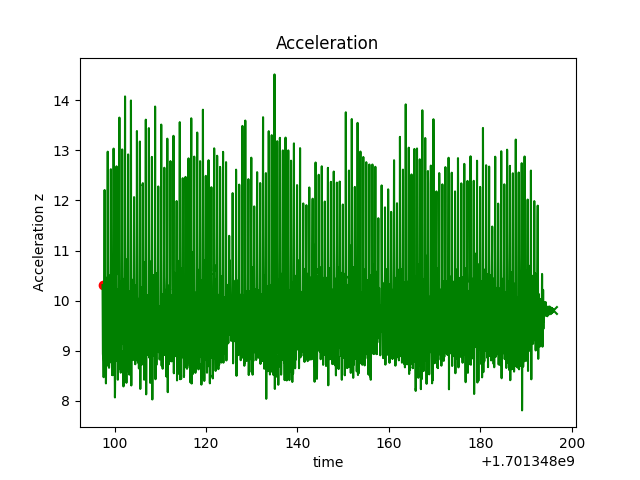
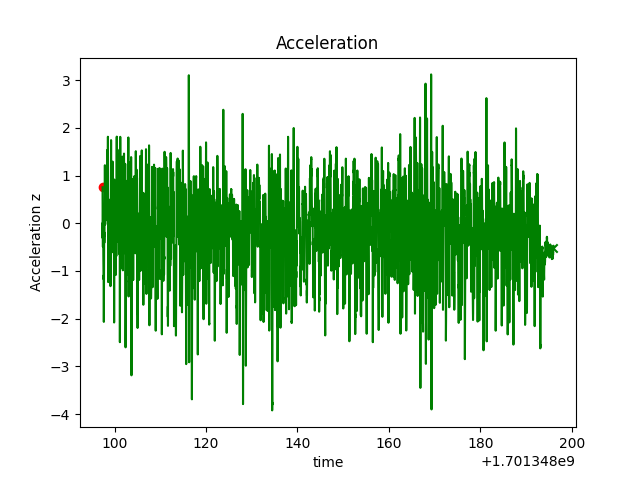
groupa

diff --git a/main2.py b/main2.py
@@ -3,8 +3,8 @@ import scipy.integrate as integrate
 from scipy.signal import detrend
 import numpy as np
 import matplotlib.pyplot as plt
+from scipy.spatial.transform import Rotation
 from mpl_toolkits.mplot3d import Axes3D
-
 
 # read yaml file and return the data as python dictionary
 def read_yaml(filepath) :  
@@ -24,10 +24,13 @@ def extract_quternions(dic) :
 
 # change the quternion to rotation matrix
 def quaternion_to_matrix(qtrn) :
+  
    q0 = qtrn['w']
    q1 = qtrn['x']
    q2 = qtrn['y']
    q3 = qtrn['z']
+   rotation_vec = [q1,q2,q3]
+   rotation_matrix = Rotation.from_rotvec(rotation_vec).as_matrix()
    # First row of the rotation matrix
    r00 = 2 * (q0 * q0 + q1 * q1) - 1
    r01 = 2 * (q1 * q2 - q0 * q3)
@@ -45,9 +48,10 @@ def quaternion_to_matrix(qtrn) :
     
    # 3x3 rotation matrix
    rot_matrix = np.array([[r00, r01, r02],
-                        [r10, r11, r12],
-                        [r20, r21, r22]])          
-   return rot_matrix
+                          [r10, r11, r12],
+                          [r20, r21, r22]])          
+#    return rot_matrix
+   return rotation_matrix
 
 # extract the accleration for each axis
 def extract_acc(dic,bias, sf) :
@@ -62,7 +66,8 @@ def extract_acc(dic,bias, sf) :
     # apply scale factor and bias before transforming it
     for i in range(3):
         acc[i] = (acc[i] - bias[i]) / (1 + sf[i])
-    acc_tranformed = rotation_matrix @ acc.reshape((-1,1)) # 3,1 column vector
+    gravity = np.array([[0], [0], [9.8]])
+    acc_tranformed = rotation_matrix @ acc.reshape((-1,1)) - rotation_matrix @ gravity # 3,1 column vector
     return acc_tranformed
 
 # estimate velocity
@@ -70,6 +75,13 @@ def est_vel(acc, timepoints) :
     print('estimating velocity by integrating acc...')
     vel = np.zeros_like(acc)
     vel = integrate.cumtrapz(acc,x=timepoints,initial=0)
+
+    # velocity = np.zeros_like(acc)
+    # velocity[0] = 0
+
+    # for i in range(1,len(vel)) :
+    #     delta = timepoints[i]- timepoints[i-1]
+    #     velocity[i] = acc[i] * delta
     return vel
 
 # estimate displacement
@@ -81,7 +93,7 @@ def est_position(vel ,timepoints) :
 
 # plot 2d data
 def plot_2D(xdata,ydata, xlabel, ylabel,title):
-    plt.plot(xdata,ydata,linestyle ='-', color ='g')
+    plt.scatter(xdata,ydata, s =5, color ='blue')
     plt.xlabel(xlabel=xlabel)
     plt.ylabel(ylabel=ylabel)
     plt.title(title)
@@ -104,14 +116,14 @@ def plot_3D(xdata, ydata, zdata):
 
 def main() :
     # bias
-    bias_x = 0 #0.00273906
-    bias_y = 0 #0.01719892
-    bias_z = 0 #-0.002825
+    bias_x = 0.00273906
+    bias_y = 0.01719892
+    bias_z = -0.002825
     bias = [bias_x, bias_y, bias_z]
     # scale factor
-    sf_x   = 0 #0.00068967
-    sf_y   = 0 #0.0003230
-    sf_z   = 0 #0.00147083
+    sf_x   = 0.00068967
+    sf_y   = 0.0003230
+    sf_z   = 0.00147083
     sf = [sf_x, sf_y, sf_z]
     gravity = 9.8
     file_path = 'imu_data.yaml'
@@ -120,23 +132,23 @@ def main() :
     time_points = list(map(lambda x: extract_time(x),data))
     # get the acceleration
     print('extracting acceleration data...') # this is goint to be changed
-    acclrtn = list(map(lambda a : extract_acc(a, bias=bias,sf=sf), data))
-    acc_x =  (list(map( lambda d : d[0, 0], acclrtn)))  # get acceleration in x direction
-    acc_y =  (list(map( lambda d : d[1, 0], acclrtn)))  # get acceleration in y direction
-    acc_z =  (list(map( lambda d : d[2, 0], acclrtn)))  # get accelration in z direction
+    acclrtn =  list(map(lambda a : extract_acc(a, bias=bias,sf=sf), data))
+    acc_x   =  (list(map( lambda d : d[0, 0], acclrtn)))  # get acceleration in x direction
+    acc_y   =  (list(map( lambda d : d[1, 0], acclrtn)))  # get acceleration in y direction
+    acc_z   =  (list(map( lambda d : d[2, 0], acclrtn)))  # get accelration in z direction
     # get the velocity
     vel_x = (est_vel(acc_x,time_points))
     vel_y = (est_vel(acc_y,time_points))
     vel_z = (est_vel(acc_y,time_points))
     # get the position
-    pos_x = est_position(vel_x,time_points)
-    pos_y = est_position(vel_y,time_points)
-    pos_z = est_position(vel_z,time_points)
+    pos_x = (est_position(vel_x,time_points))
+    pos_y = (est_position(vel_y,time_points))
+    pos_z =  est_position(vel_z,time_points)
     # plot
-    # plot_2D(pos_x,pos_y,xlabel='x-position', ylabel='y-position', title='position-xy-plane')
-    # plot_2D(time_points,vel_x,xlabel='time', ylabel='vel-x', title='velocity-x')
-    # plot_2D(time_points,vel_y,xlabel='time', ylabel='vel-y', title='velocity-y')
+    plot_2D(pos_x, pos_y, xlabel='x-position', ylabel='y-position', title='position-xy-plane')
+    plot_2D(time_points,vel_x,xlabel='time', ylabel='vel-x', title='velocity-x')
+    plot_2D(time_points,vel_y,xlabel='time', ylabel='vel-y', title='velocity-y')
     # plot_3D(pos_x, pos_y, pos_z)
-    plot_2D(time_points,acc_z,xlabel='time', ylabel='Acceleration z', title='Acceleration')
+    # plot_2D(time_points,acc_x,xlabel='time', ylabel='Acceleration z', title='Acceleration')
 
 main()

diff --git a/main3.py b/main3.py
@@ -54,7 +54,7 @@ def extract(data, timepoints, bias, sf):
     acc_y_trn[0] = acc_y[0]
     acc_z_trn = np.zeros(len(acc_z))
     acc_z_trn[0] = acc_z[0]
-    
+    gravity = np.array([[0], [0], [9.8]])
     for i in range(1,len(timepoints)):
         deltaT = timepoints[i]-timepoints[i-1]
         ang_vel = extract_angvel(data=data[i])
@@ -67,9 +67,8 @@ def extract(data, timepoints, bias, sf):
         s = np.sin(theta)/theta
         c = (1- np.cos(theta)) / theta ** 2
         R_K1 = R_K @ (I + s * S  + c * S  @ S )
+        acc_trn = R_K1 @ np.array([[acc_x[i]],[acc_y[i]],[acc_z[i]]]) #- R_K1 @ gravity
         R_K = R_K1
-        acc_trn = R_K1 @ np.array([[acc_x[i]],[acc_y[i]],[acc_z[i]]])
-        print("type of acc_trn", acc_trn)
         acc_x_trn[i] = acc_trn[0, 0]
         acc_y_trn[i] = acc_trn[1, 0]
         acc_z_trn[i] = acc_trn[2, 0]
@@ -112,11 +111,12 @@ def plot_3D(xdata, ydata, zdata):
     plt.savefig('Trajectory_plot.png')
     plt.show()
 
+
 def main() :
     # calibartion datas
-    bias_x =0 #0.00273906
-    bias_y =0 #0.01719892
-    bias_z =0 #-0.002825
+    bias_x = 0 #0.00273906
+    bias_y = 0 #0.01719892
+    bias_z = 0 #-0.002825
     bias = [bias_x, bias_y, bias_z]
     sf_x   = 0 #0.00068967
     sf_y   = 0 #0.0003230
@@ -130,22 +130,25 @@ def main() :
     # get the acceleration
     print('extracting acceleration data...') # this is goint to be changed
     acclrtn = extract(data=data,bias=bias,sf=sf, timepoints=time_points)
-    acc_x =  (acclrtn['acc_x']) # get acceleration in x direction
-    acc_y =  (acclrtn['acc_y'])  # get acceleration in y direction
-    acc_z =  (acclrtn['acc_z'])  # get accelration in z direction
+    acc_x =  detrend(acclrtn['acc_x'])  # get acceleration in x direction
+    acc_y =  detrend(acclrtn['acc_y'])  # get acceleration in y direction
+    acc_z =  detrend(acclrtn['acc_z'])  # get accelration in z direction
     # get the velocity
-    vel_x = (est_vel(acc_x,time_points))
-    vel_y = (est_vel(acc_y,time_points)) 
+    vel_x = detrend(est_vel(acc_x,time_points))
+    vel_y = detrend(est_vel(acc_y,time_points)) 
     vel_z = (est_vel(acc_z,time_points))
     # get the position
-    pos_x = est_position(vel_x,time_points)
-    pos_y = est_position(vel_y,time_points)
+    pos_x = (est_position(vel_x,time_points))
+    pos_y = (est_position(vel_y,time_points))
     pos_z = est_position(vel_z,time_points)
     # plot
     plot_2D(pos_x,pos_y,xlabel='x-position', ylabel='y-position', title='position-xy-plane')
-    # plot_2D(time_points,vel_x,xlabel='time', ylabel='vel-x', title='velocity-x')
-    # plot_2D(time_points,vel_y,xlabel='time', ylabel='vel-y', title='velocity-y')
-    # plot_3D(pos_x, pos_y, pos_z)
-    # plot_2D(time_points,acc_x,xlabel='time', ylabel='vel-y', title='velocity-y')
+    plot_2D(time_points,vel_x,xlabel='time', ylabel='vel-x', title='velocity-x')
+    plot_2D(time_points,vel_y,xlabel='time', ylabel='vel-y', title='velocity-y')
+    #plot_3D(pos_x, pos_y, pos_z)
+    plot_2D(time_points,acc_z,xlabel='time', ylabel='acc-z', title='acc_z')
 
 main()
+
+
+# i got better result only detrending velocity and displacment only
